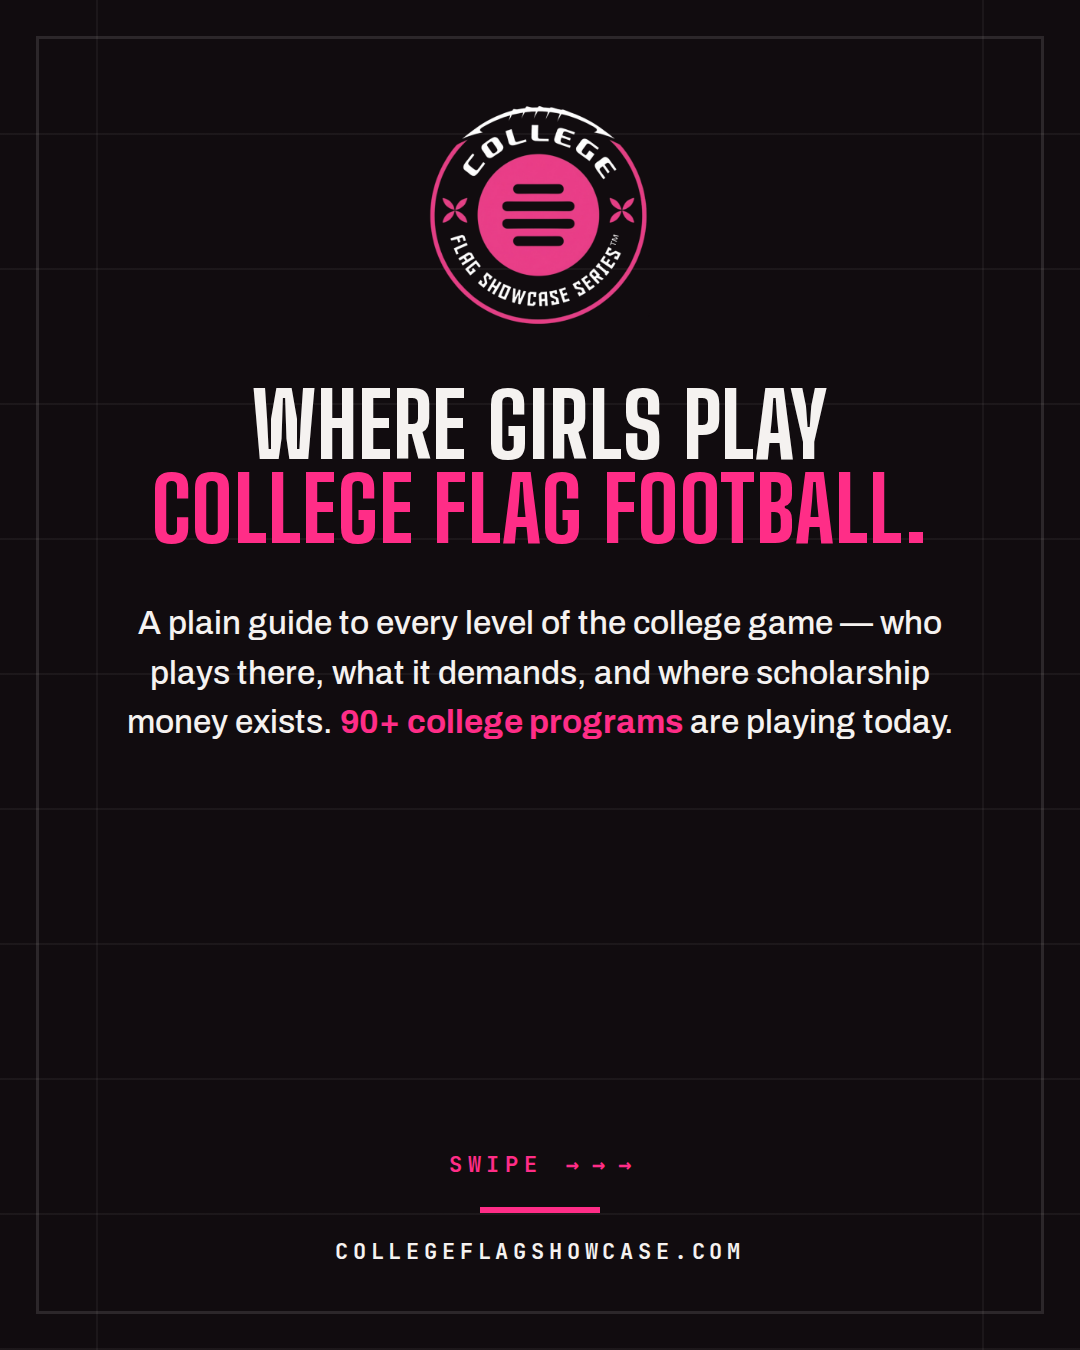
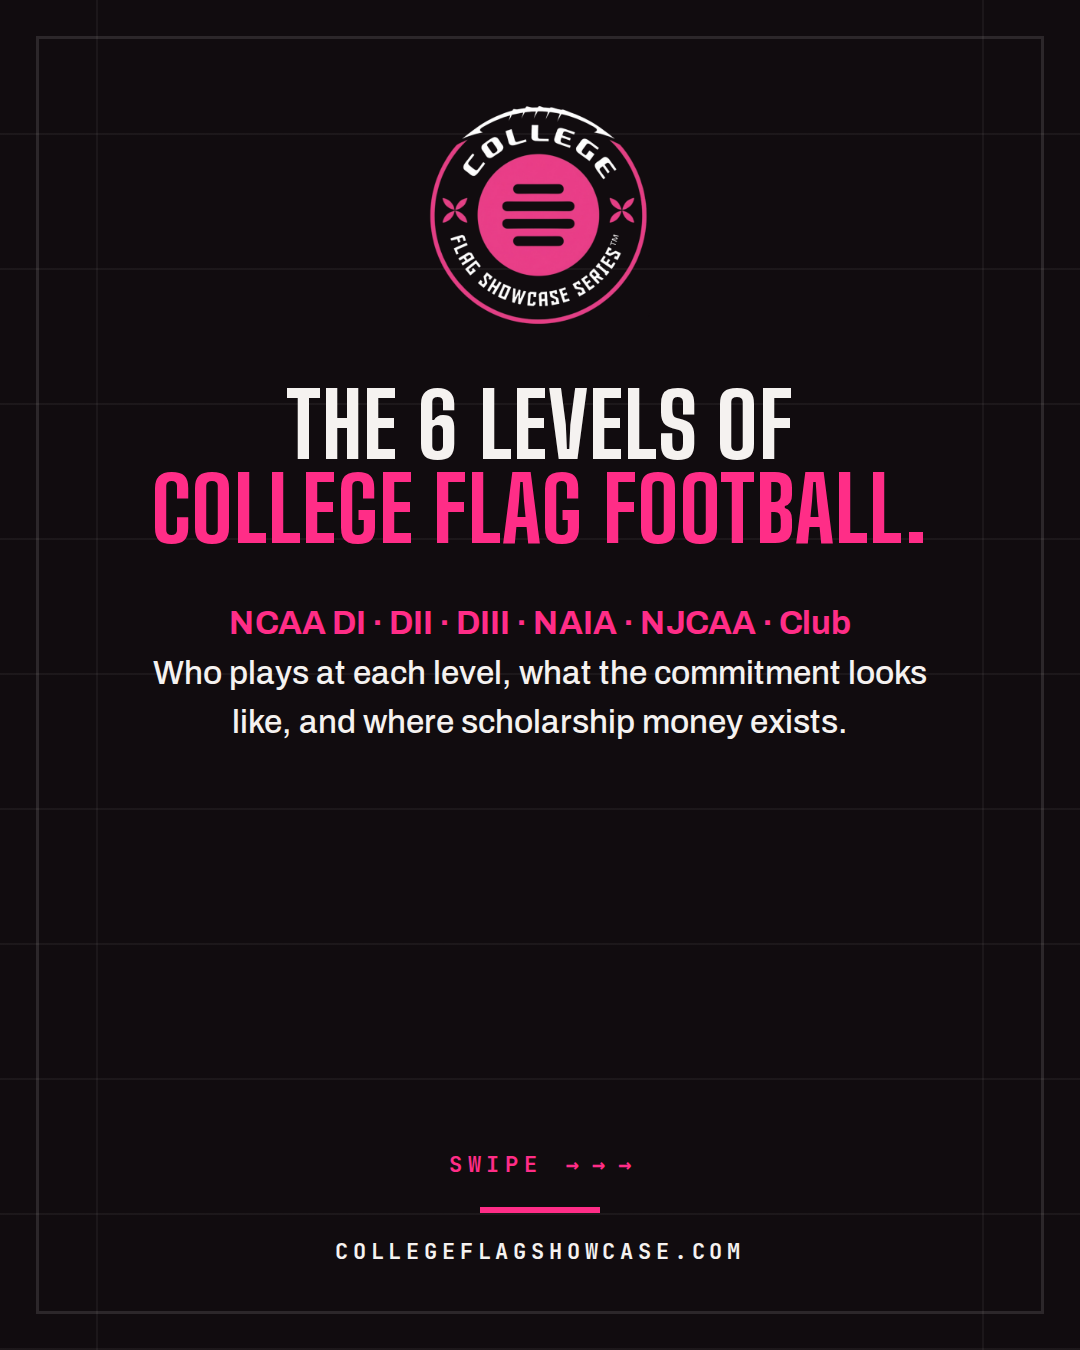
Clarify levels carousel cover: The 6 levels of college flag football
Claude-Session: https://claude.ai/code/session_019V32boShoBmRrwWenCPJFc

Changed region(s): [[0.1222, 0.4356, 0.8861, 0.56], [0.2139, 0.28, 0.7639, 0.3422]]

diff --git a/collateral/ig-carousel-divisions.html b/collateral/ig-carousel-divisions.html
@@ -60,8 +60,8 @@
   <div class="yards"></div><div class="hash l"></div><div class="hash r"></div><div class="frame"></div>
   <div class="inner center">
     <img class="logo" src="../public/logo.png" alt="College Flag Showcase Series" />
-    <h1 class="cover-title">Where girls play<br /><em>college flag football.</em></h1>
-    <p class="cover-body">A plain guide to every level of the college game &mdash; who plays there, what it demands, and where scholarship money exists. <b>90+ college programs</b> are playing today.</p>
+    <h1 class="cover-title">The 6 levels of<br /><em>college flag football.</em></h1>
+    <p class="cover-body"><b>NCAA DI &middot; DII &middot; DIII &middot; NAIA &middot; NJCAA &middot; Club</b><br />Who plays at each level, what the commitment looks like, and where scholarship money exists.</p>
     <p class="swipe">Swipe<span>&nbsp;&rarr;&nbsp;&rarr;&nbsp;&rarr;</span></p>
     <div class="rule cover-rule"></div>
     <p class="foot"><b>collegeflagshowcase.com</b></p>
